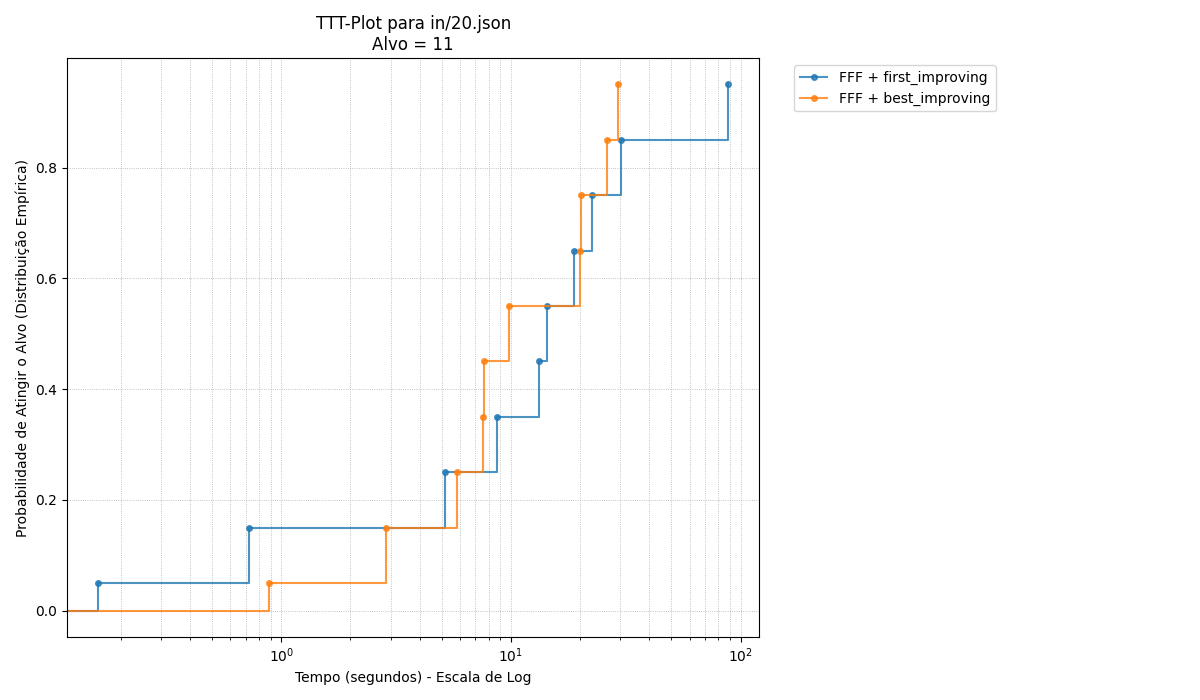
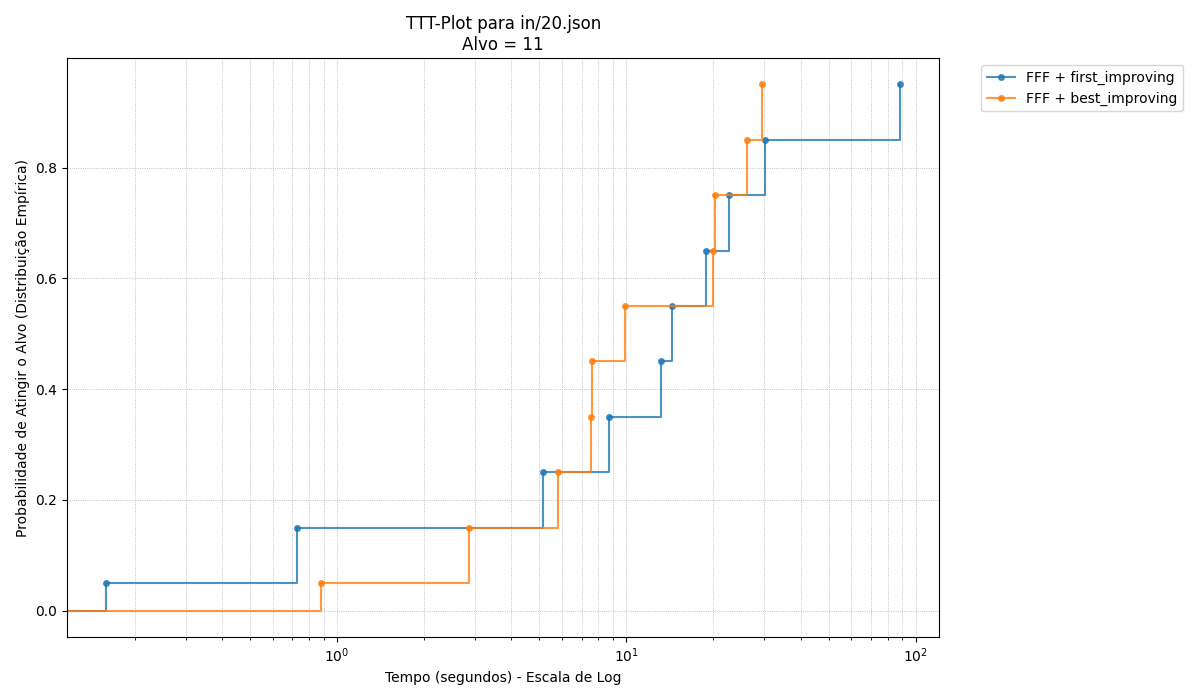
Ajustando gráfico ttt plot

diff --git a/src/ttt_plot_generate_chart.py b/src/ttt_plot_generate_chart.py
@@ -77,7 +77,7 @@ def generate_ttt_plots_from_csv(csv_path: str, output_dir: str):
         
         plt.legend(bbox_to_anchor=(1.04, 1), loc="upper left")
         
-        plt.tight_layout(rect=[0, 0, 0.85, 1]) 
+        plt.tight_layout(rect=[0, 0, 1, 1]) 
         
         base_name = os.path.basename(instance_name) 
         file_stem = os.path.splitext(base_name)[0]
